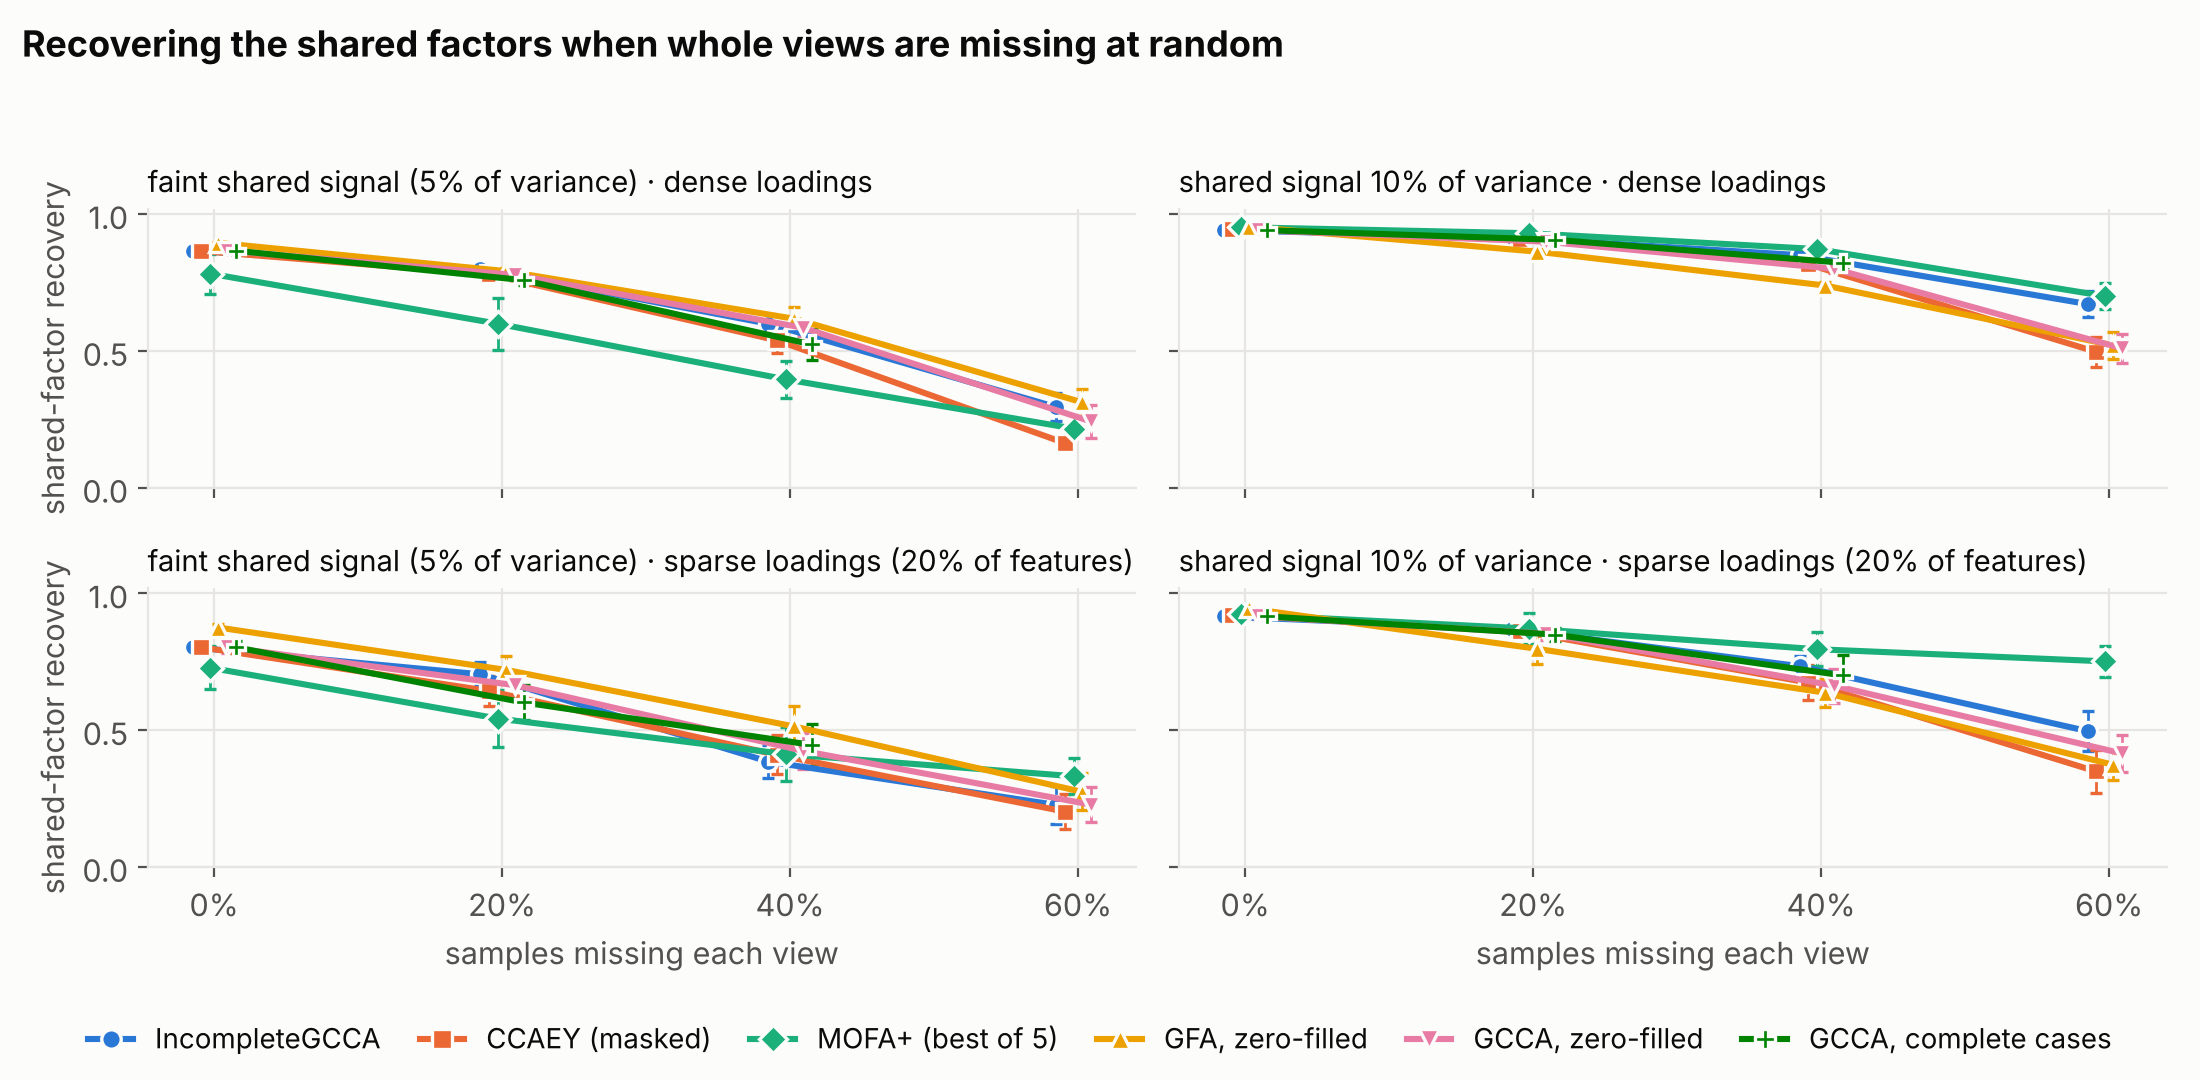
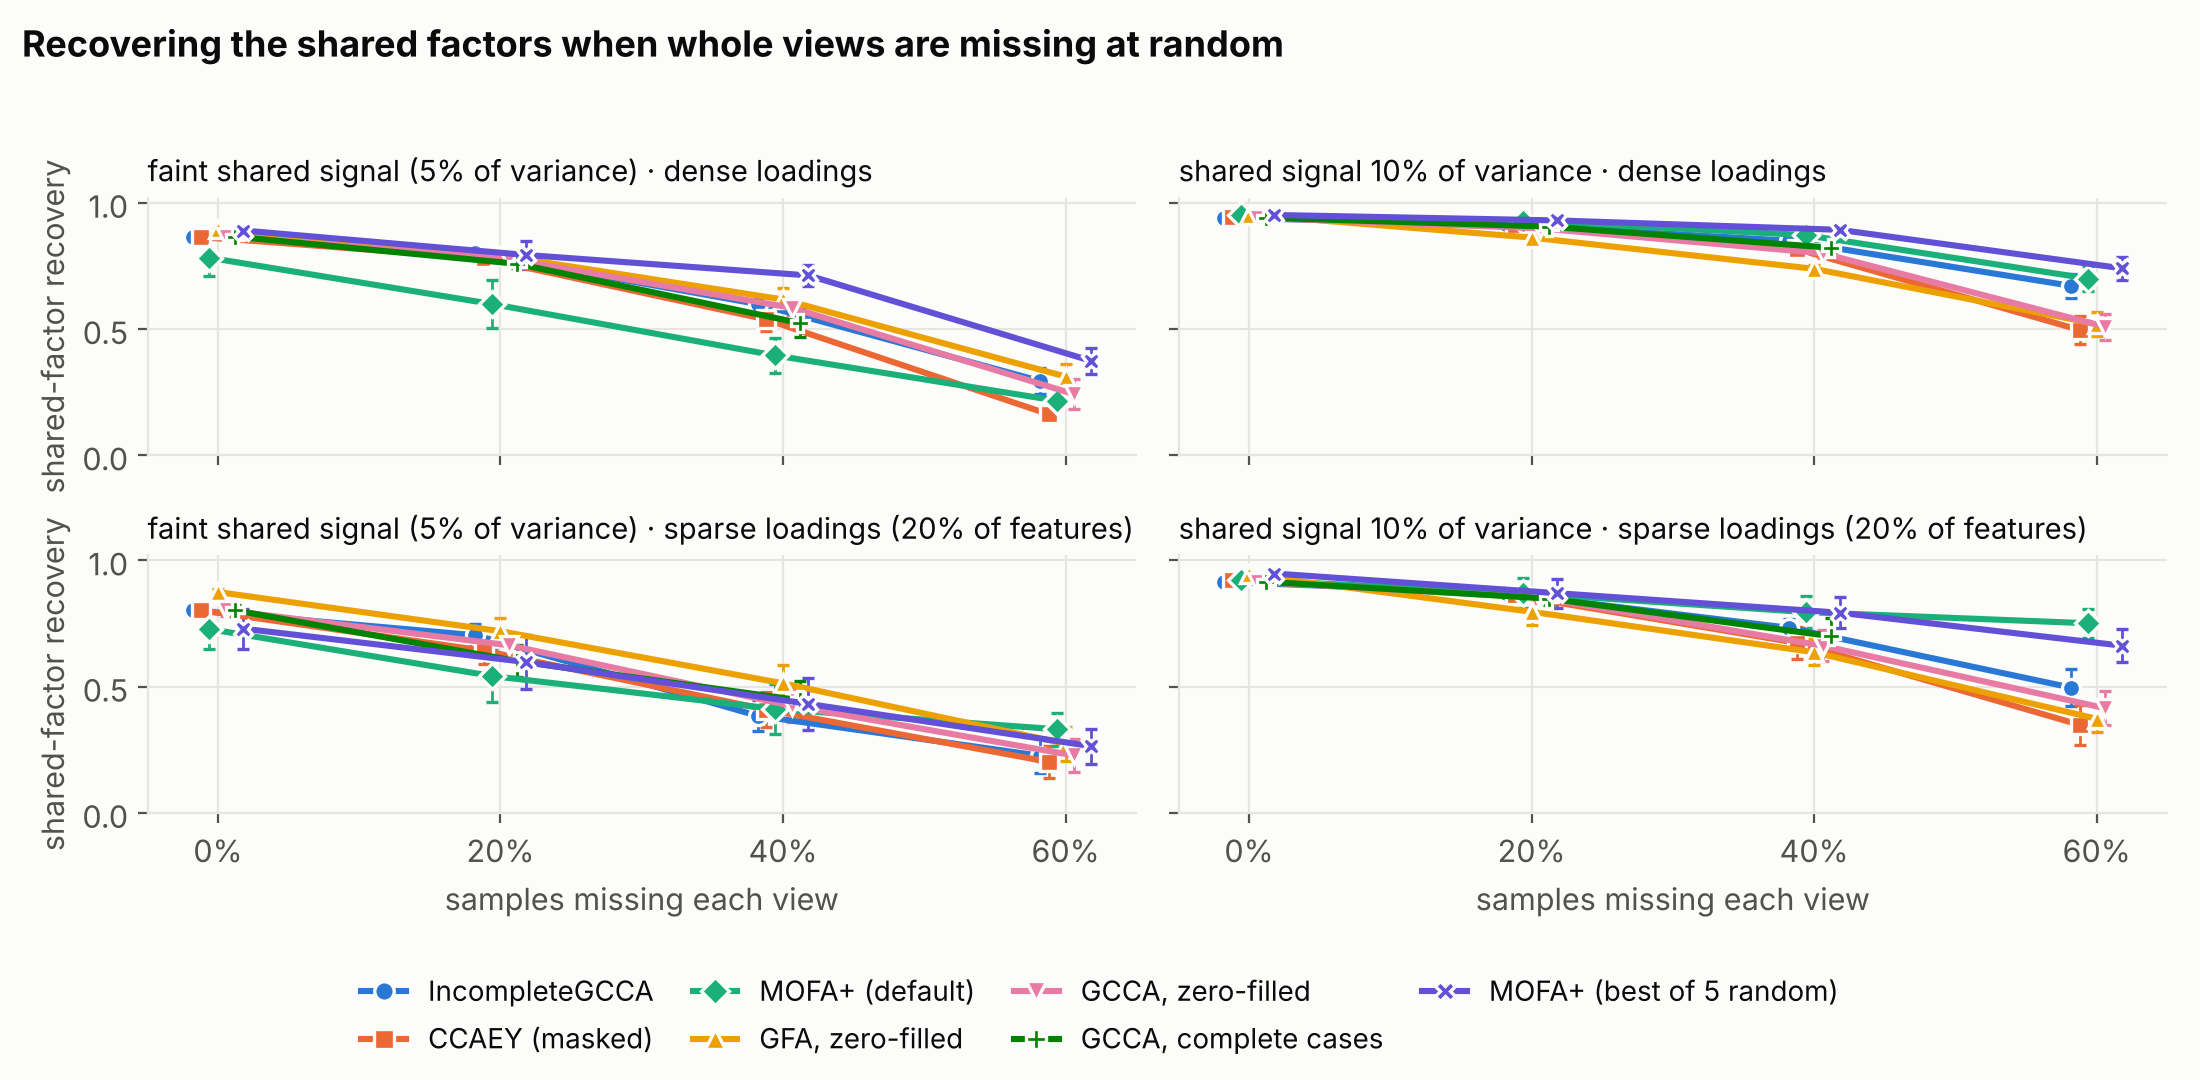
Benchmark: results, figures and README
Results for 224 simulated settings across MCAR and MNAR missingness, dense and
sparse loadings, with figures sized for a slide and a README stating the
design, the metrics and the caveats.

Claude-Session: https://claude.ai/code/session_014BvubMb9w7QTsBR2FXesGp

diff --git a/benchmarks/missing_views/plot.py b/benchmarks/missing_views/plot.py
@@ -1,6 +1,6 @@
 """Figures for the missing-view benchmark, sized for a slide's content box.
 
-python benchmarks/missing_views/plot.py output/results.json output/results_mofa.json output/
+python plot.py output/results.json output/results_mofa.json output/
 """
 
 from __future__ import annotations
@@ -24,6 +24,7 @@ STYLE = {
     "GFA, zero-filled": ("#eda100", "^"),
     "GCCA, zero-filled": ("#e87ba4", "v"),
     "GCCA, complete cases": ("#008300", "P"),
+    "MOFA+ (best of 5 random)": ("#6250d6", "X"),
 }
 RANDOM_INIT = "MOFA+ (best of 5 random)"
 SIZE = (11.0, 5.4)  # inches: a 16:9 slide's content area under a title
@@ -51,6 +52,7 @@ plt.rcParams.update(
     }
 )
 
+RATES = [0.0, 0.2, 0.4, 0.6]
 DENSITY = {1.0: "dense loadings", 0.2: "sparse loadings (20% of features)"}
 SHARED = {
     0.05: "faint shared signal (5% of variance)",
@@ -76,7 +78,7 @@ def _legend(fig: plt.Figure, names: list[str]) -> None:
     fig.legend(
         handles=handles,
         loc="lower center",
-        ncol=len(names),
+        ncol=4,
         frameon=False,
         fontsize=10,
         handlelength=1.6,
@@ -105,7 +107,7 @@ def _lines(ax: plt.Axes, data: pd.DataFrame, metric: str) -> None:
             markeredgecolor=SURFACE,
             markeredgewidth=1.2,
         )
-    ax.set_xticks(sorted(data["missing_rate"].unique()))
+    ax.set_xticks(RATES)
     ax.xaxis.set_major_formatter(lambda v, _: f"{v:.0%}")
 
 
@@ -151,7 +153,7 @@ def facets(
                 ax.set_xlabel("samples missing each view")
     fig.suptitle(title, x=0.01, ha="left", fontsize=13, fontweight="bold")
     _legend(fig, [m for m in STYLE if m in set(df["method"])])
-    fig.tight_layout(rect=(0, 0.07, 1, 0.95))
+    fig.tight_layout(rect=(0, 0.12, 1, 0.96))
     fig.savefig(path, dpi=DPI)
     plt.close(fig)
 
@@ -197,7 +199,7 @@ def stability(df: pd.DataFrame, path: Path) -> None:
         ax.grid(axis="x", visible=False)
     axes[0].set_ylabel("shared-factor recovery")
     fig.suptitle(
-        "One MOFA+ initialisation can land in a poor optimum (40% of views missing; bar = median, dots = seeds)",
+        "MOFA+ collapses on some datasets, from any start (40% missing; bar = median)",
         x=0.01,
         ha="left",
         fontsize=12.5,
@@ -236,7 +238,7 @@ def main() -> None:
     *results, out = (Path(a) for a in sys.argv[1:])
     df = pd.DataFrame([row for r in results for row in json.loads(r.read_text())])
     mcar = df[df["mechanism"] == "mcar"]
-    main_methods = df[df["method"] != RANDOM_INIT]
+    main_methods = df
     main_mcar = main_methods[main_methods["mechanism"] == "mcar"]
     facets(
         main_mcar,
@@ -253,8 +255,8 @@ def main() -> None:
     facets(
         main_mcar[main_mcar["missing_rate"] > 0],
         "imputation_r2",
-        "R² of the withheld shared signal",
-        "Filling in a missing view from the others",
+        "imputation R²",
+        "Filling in a missing view from the others (axis cut at -2)",
         "shared",
         "density",
         SHARED,
@@ -267,7 +269,7 @@ def main() -> None:
         mnar,
         "recovery",
         "shared-factor recovery",
-        "Missingness that depends on the biology (MNAR) against random (MCAR), shared signal 10%",
+        "Missingness tied to the biology (MNAR) vs random (MCAR), shared signal 10%",
         "mechanism",
         "density",
         {"mcar": "MCAR", "mnar": "MNAR"},

diff --git a/benchmarks/missing_views/methods.py b/benchmarks/missing_views/methods.py
@@ -82,6 +82,7 @@ def incomplete_gcca(
     n_shared: int,
     seed: int,
 ) -> Result:
+    """IncompleteGCCA, shrinkage chosen by cross-validation."""
     model = _tuned(
         lambda s: IncompleteGCCA(n_components=n_shared, shrinkage=s), views, seed
     )
@@ -94,6 +95,7 @@ def masked_ccaey(
     n_shared: int,
     seed: int,
 ) -> Result:
+    """CCAEY with its loss masked to the views each sample has, shrinkage tuned."""
     model = _tuned(
         lambda s: CCAEY(n_components=n_shared, shrinkage=s, random_state=seed),
         views,

diff --git a/benchmarks/missing_views/README.md b/benchmarks/missing_views/README.md
@@ -1,0 +1,45 @@
+# Missing-view benchmark
+
+Simulated multi-omics-like views with whole samples missing from each view,
+comparing the missing-view CCA models with what practitioners use.
+
+```bash
+uv pip install mofapy2 matplotlib
+python run.py --out output/results.json --methods "IncompleteGCCA" "CCAEY (masked)" \
+    "GCCA, complete cases" "GCCA, zero-filled" "GFA, zero-filled"
+python run.py --out output/results_mofa.json --methods "MOFA+ (default)" \
+    "MOFA+ (best of 5 random)"
+python plot.py output/results.json output/results_mofa.json output/
+```
+
+## Design
+
+Three views of 60, 80 and 40 features on 150 samples. Two factors are shared by
+all views and two are private to each view; every feature has unit variance, of
+which 5% or 10% is shared and 50% private. Loadings are dense, or sparse (20% of
+features per factor). Whole views are removed from 0 to 60% of samples, completely
+at random (MCAR) or with a probability that depends on the first shared factor
+(MNAR). Eight datasets per setting.
+
+Methods: `IncompleteGCCA`; masked `CCAEY`; `GCCA` on complete cases only; `GCCA`
+with missing views zero-filled after centring; `GFA` fitted to zero-filled views;
+and MOFA+ (mofapy2) as run by default, and as the best of five random starts by
+ELBO. The CCA-family shrinkage is chosen by three-fold cross-validation of the
+held-out correlation. MOFA+ and GFA get as many factors as were simulated
+(shared plus private) and are then reduced to the two factors that explain the
+most variance in every view, as a practitioner would pick them.
+
+Metrics: **recovery**, the mean squared cosine of the principal angles between the
+estimated and true shared factors; **imputation R²**, of the withheld samples'
+noise-free shared signal, which is all that the other views can tell about a view.
+
+## Caveats
+
+- mofapy2 starts from PCA and ignores its seed, so "best of 5" needs random starts,
+  which this benchmark forces. Its default fit is deterministic.
+- `predict` for the CCA-family models maps the mean of the other views' scores to
+  a view by least squares. That is not a posterior mean and is not calibrated to how
+  many views a sample has, so their imputation can be worse than predicting zero.
+  GFA and MOFA+ are calibrated.
+- Simulated Gaussian data with a known factor structure. Nothing here says how
+  the methods compare on real cohorts.
